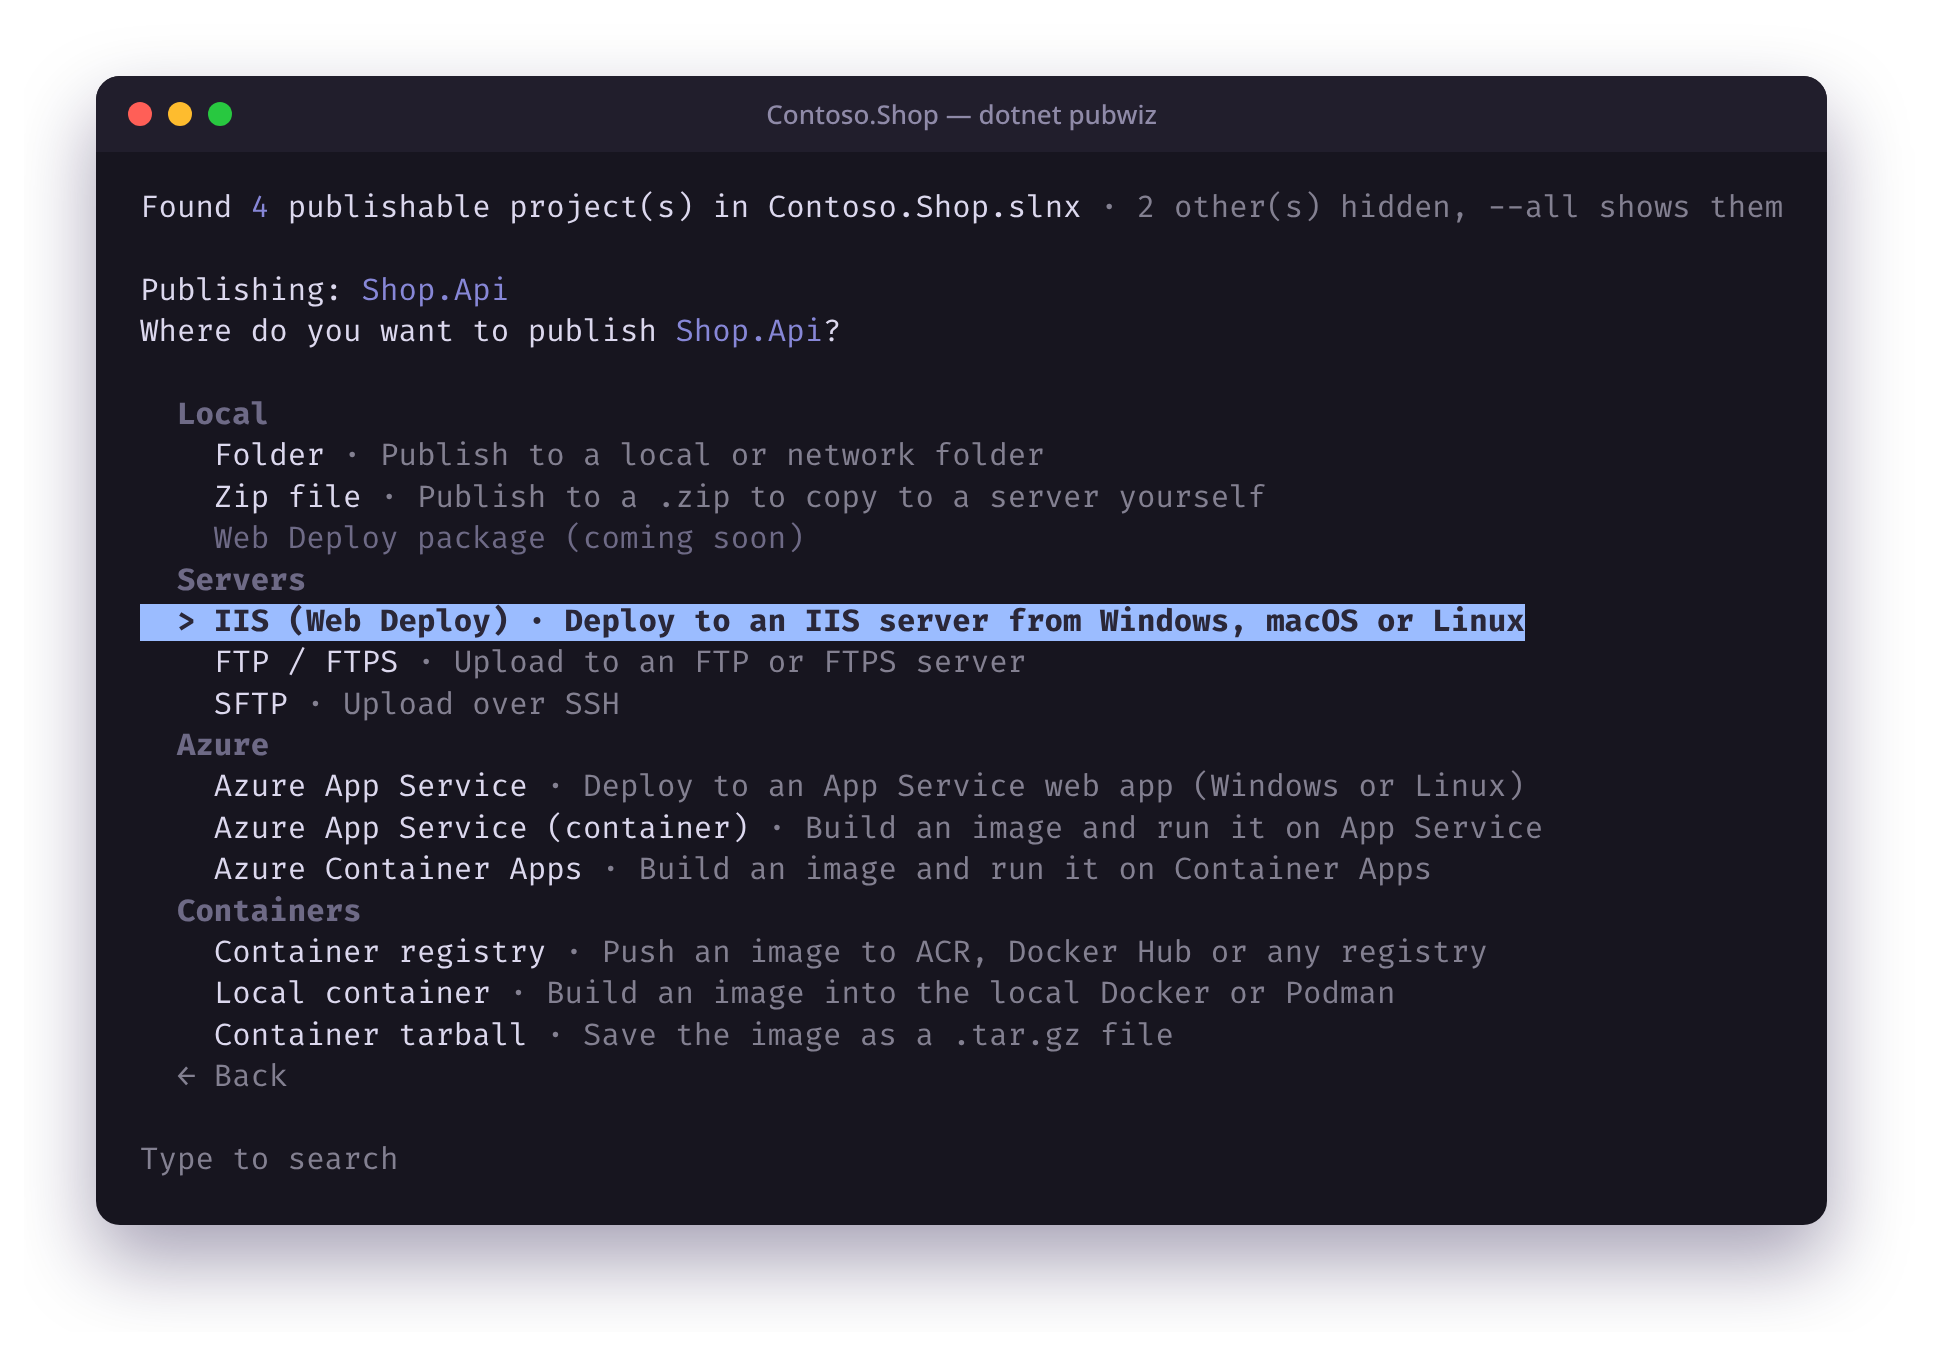
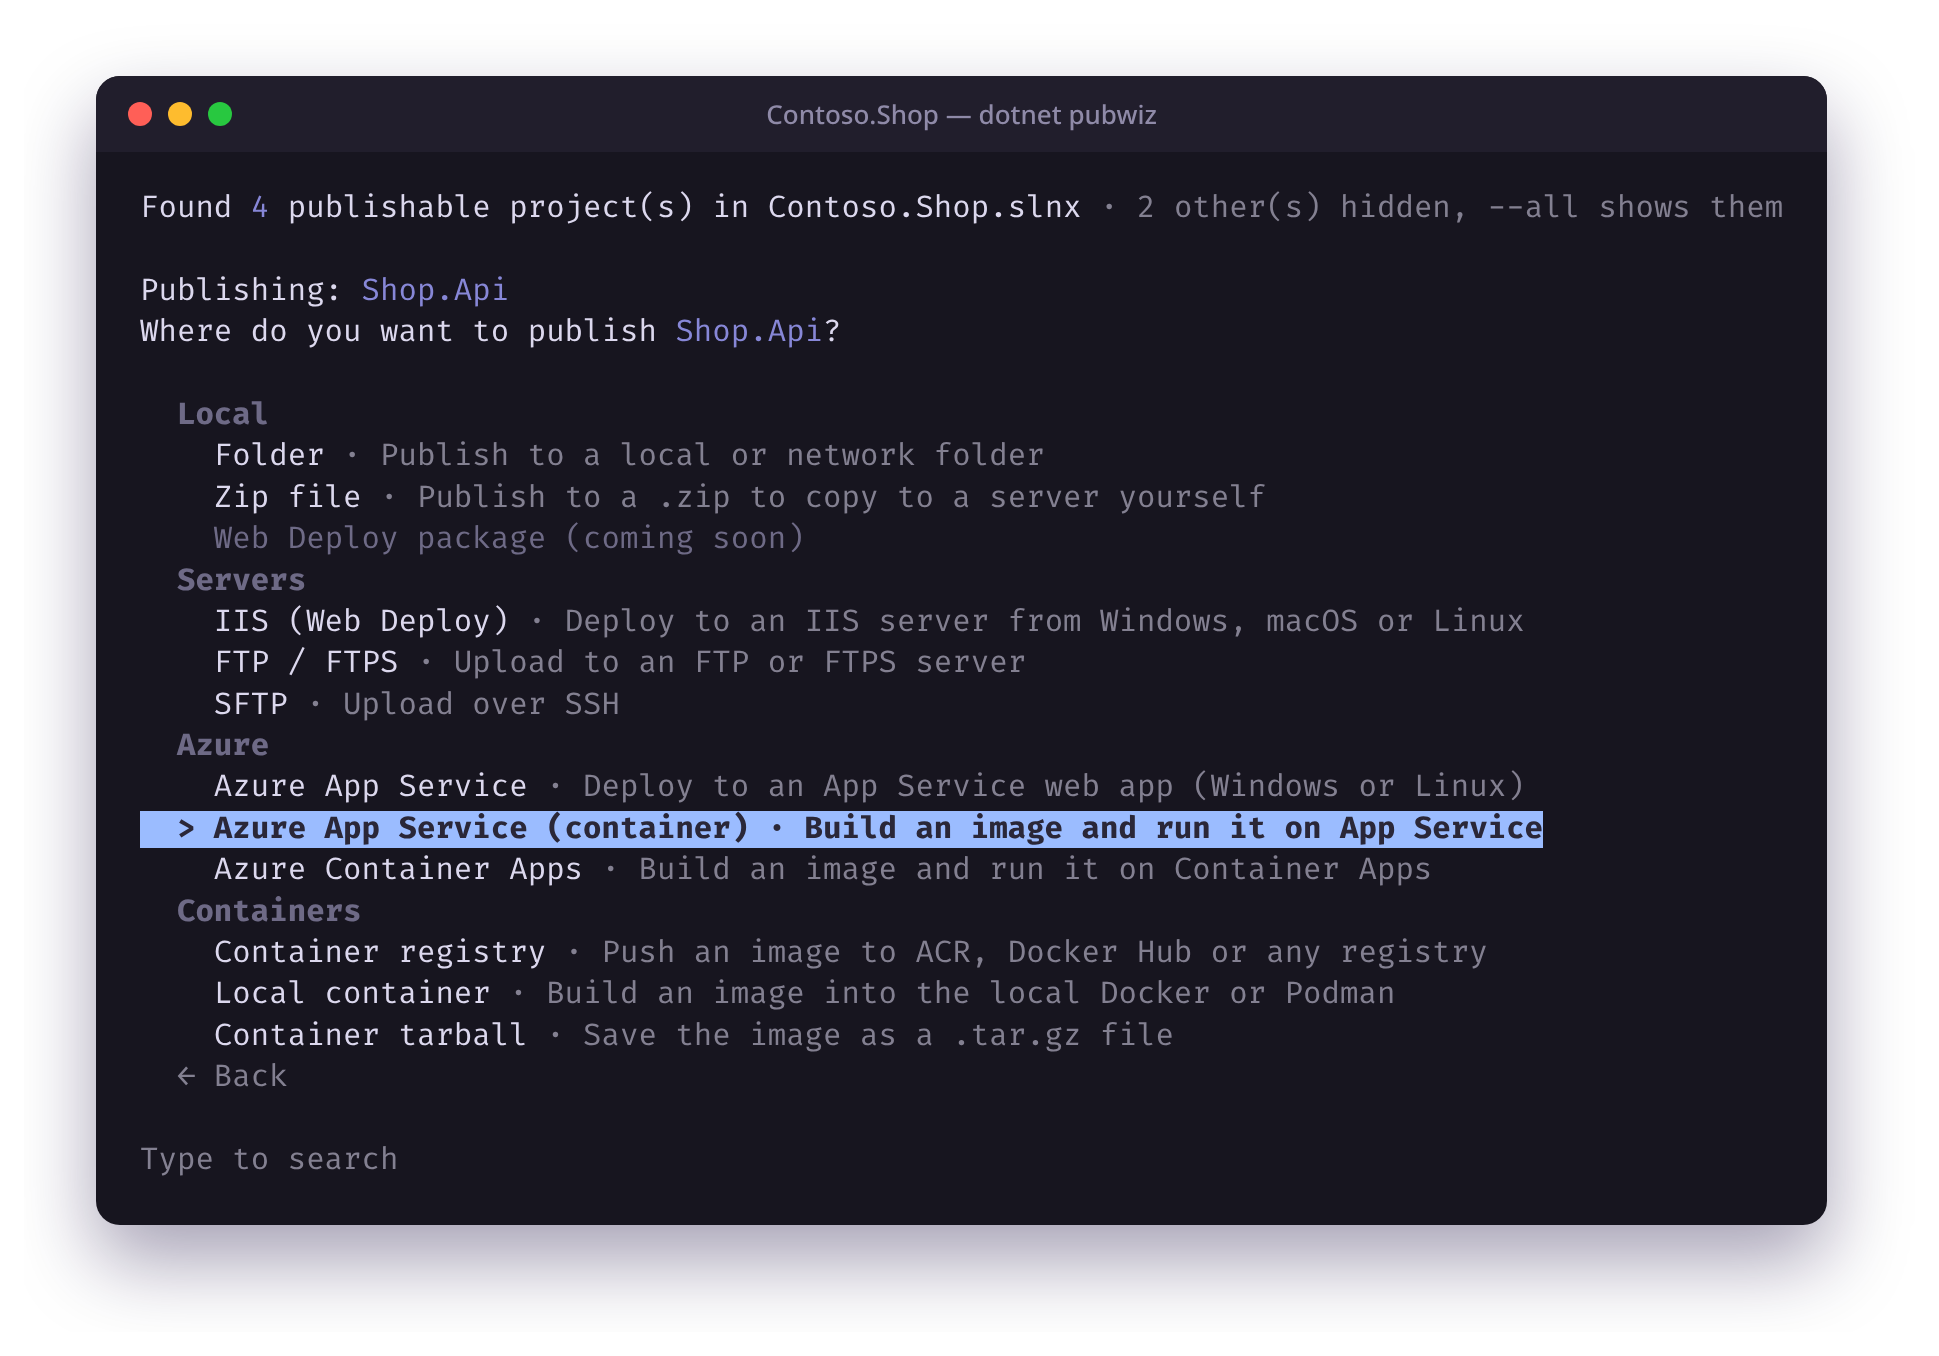
Tone down the Web Deploy mentions in the README

Changed region(s): [[0.0619, 0.5885, 0.8045, 0.6504], [0.0619, 0.4336, 0.8045, 0.4956]]

diff --git a/README.md b/README.md
@@ -29,14 +29,10 @@
 Pubwiz runs `dotnet publish` for you with the publish profiles already in your repository. Pick the projects you
 want, choose a profile for each one (or make a new one), and watch them build and deploy side by side.
 
-**Publish to IIS from macOS and Linux.** Pubwiz has its own Web Deploy client, so the `.pubxml` profiles you made in
-Visual Studio deploy to IIS from any machine, without Windows or `msdeploy.exe`. That includes taking the app offline
-while files are copied, deleting files the app no longer has, skip rules and `--what-if` previews. See
-[IIS and Web Deploy](#iis-and-web-deploy).
-
 It also:
 
 - publishes several projects at once, with each one's build output on screen as it runs
+- deploys to IIS with Web Deploy from Windows, macOS or Linux
 - imports `.publishsettings` files from Azure and IIS
 - saves a batch of projects as a preset in `pubwiz.json`, so the next release is one command, on your machine or in CI
 - keeps passwords out of your repository: in your OS keychain, or fetched from Azure for App Service
@@ -66,7 +62,7 @@ dotnet pubwiz
 
 **2. Pick a profile for each one**, or create one. New profiles start from a target, grouped by where the app is going:
 
-<p align="center"><img src="assets/screenshots/choose-target.png" alt="Choosing a publish target, grouped into Local, Servers, Azure and Containers, with IIS (Web Deploy) highlighted" width="820"></p>
+<p align="center"><img src="assets/screenshots/choose-target.png" alt="Choosing a publish target, grouped into Local, Servers, Azure and Containers" width="820"></p>
 
 Every list can be searched by typing. <kbd>Esc</kbd> or <kbd>Ctrl</kbd>+<kbd>C</kbd> in the later steps goes back to the project list.
 
@@ -77,7 +73,7 @@ Every list can be searched by typing. <kbd>Esc</kbd> or <kbd>Ctrl</kbd>+<kbd>C</
 ## Targets
 
 - **Local:** folder, zip file
-- **Servers:** IIS with Web Deploy (from Windows, macOS or Linux), FTP/FTPS, SFTP (optionally running commands over SSH before and after the upload)
+- **Servers:** IIS (Web Deploy, from Windows, Linux and macOS), FTP/FTPS, SFTP (optionally running commands over SSH before and after the upload)
 - **Azure:** App Service, Function Apps, WebJobs, Container Apps, Static Web Apps (Blazor WebAssembly)
 - **Containers:** Docker/Podman, tarball, any registry
 - **Mobile:** Android (`.aab`, `.apk`), iOS (`.ipa`, macOS only)
@@ -174,19 +170,10 @@ dotnet pubwiz servers set 10.0.0.5 --user deploy
 
 Every Web Deploy profile whose `MSDeployServiceURL` points at that server (by IP address or name, as written in the profile; any port) then signs in with that user and password, instead of the profile's, with both msdeploy.exe and the built-in client. Profiles that sign in as the current Windows user can then publish from Linux and macOS too. The user name is kept in `servers.json` in your config folder (`~/.config/pubwiz` on Linux, `%APPDATA%\pubwiz` on Windows) and the password in the OS keychain. For setup scripts, pass `--password-stdin`.
 
-## IIS and Web Deploy
+## IIS (Web Deploy)
 
-`msdeploy.exe` only runs on Windows, so publishing to IIS from a Mac, a Linux machine or a Linux CI runner usually
-means keeping a Windows VM around. Pubwiz doesn't need one: it has its own Web Deploy client that talks to the
-server's Web Deploy service (`https://<server>:8172/msdeploy.axd`) the same way msdeploy does. Nothing changes on the
-server, and your existing Visual Studio profiles work as they are. The client is also published on its own as the
-[Pubwiz.WebDeploy](src/Pubwiz.WebDeploy) package.
-
-On Windows with Web Deploy installed, Pubwiz uses `msdeploy.exe`; everywhere else it uses the built-in client. The
-built-in client signs in with a user name and password. For profiles that sign in as the current Windows user, save
-a login for the server with `dotnet pubwiz servers set` (see [Web Deploy logins per server](#web-deploy-logins-per-server)).
-
-Both read the same settings from the profile:
+Pubwiz uses `msdeploy.exe` where it's installed (Windows with Web Deploy) and its own client everywhere else, so IIS
+profiles publish from macOS and Linux too. Both read the same settings from the profile:
 
 | Profile setting | Effect |
 |---|---|
